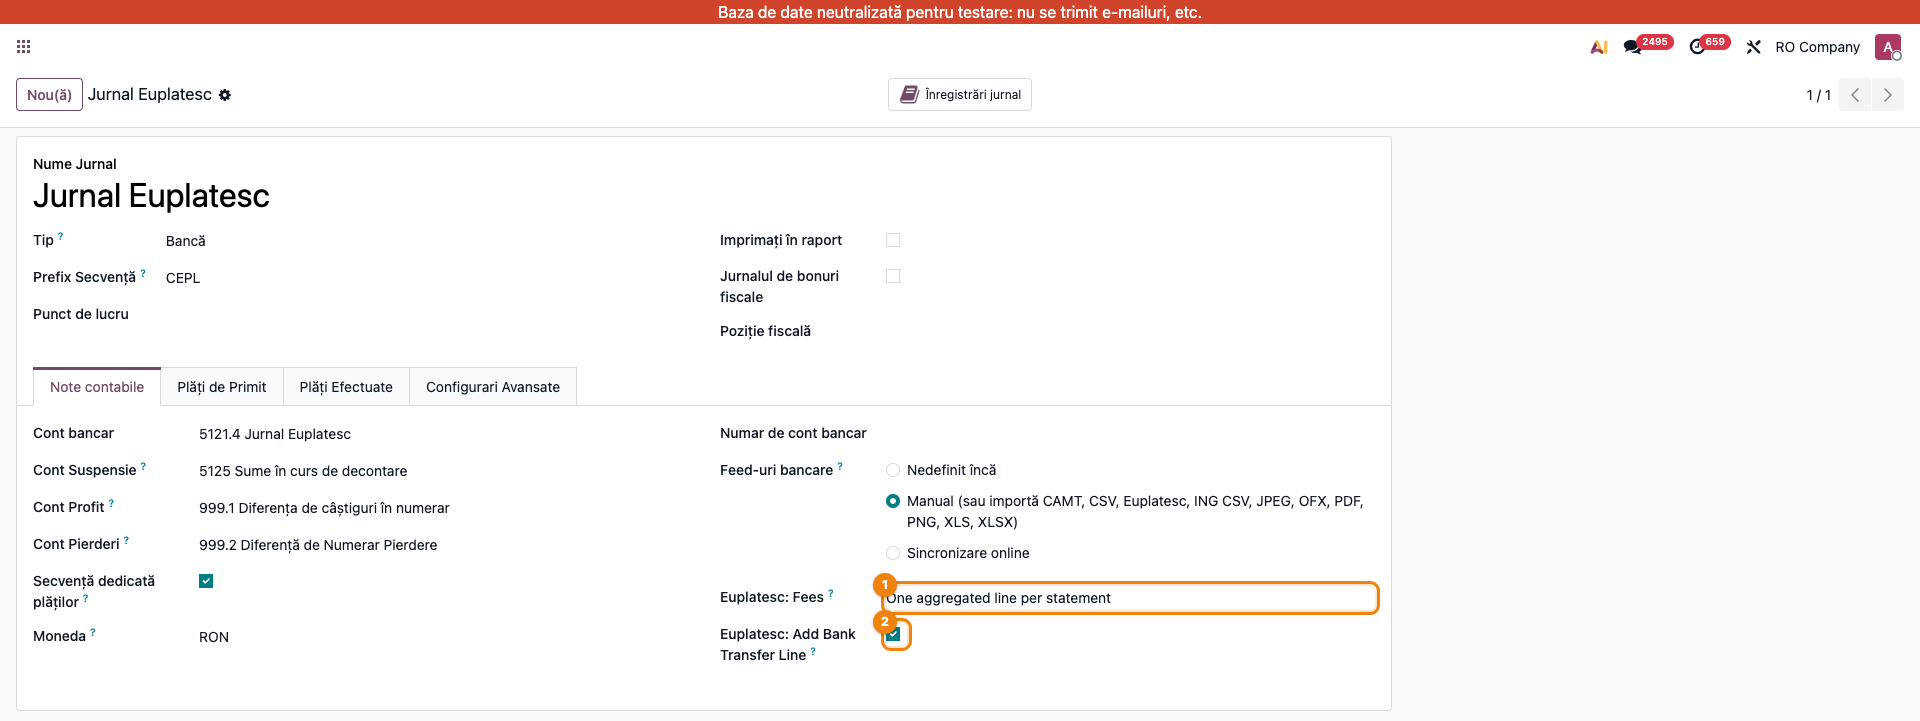
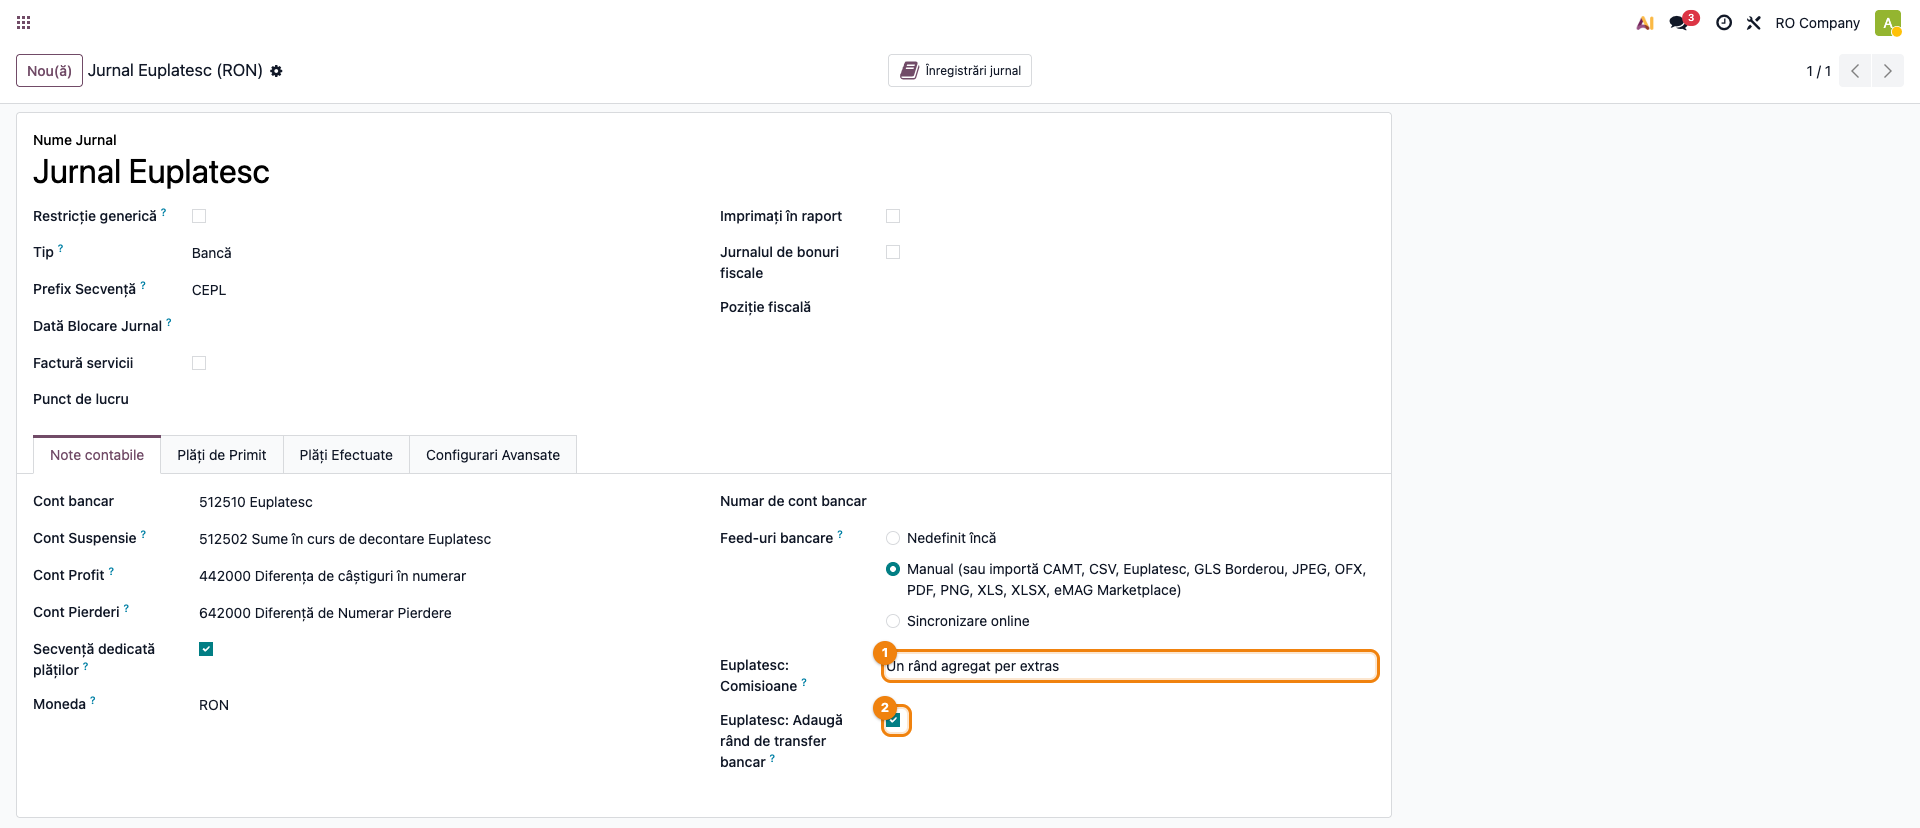
wiki: re-ingestie deltatech_account_bank_statement_import + euplatesc 19.0.1.2.0
Detecție pe set de coloane, helpere comune statement_header_key /
_statement_sheet_matching_header / _statement_partner_from_order_ref.

diff --git a/deltatech_account_bank_statement_import_euplatesc/index.md b/deltatech_account_bank_statement_import_euplatesc/index.md
@@ -1,10 +1,10 @@
 # Euplatesc Settlement Bank Statements Import (localizat la `deltatech_account_bank_statement_import_euplatesc/index.md`)
 
 - **Nume Tehnic:** `deltatech_account_bank_statement_import_euplatesc`
-- **Versiune:** `19.0.1.1.0`
+- **Versiune:** `19.0.1.2.0`
 - **Cale:** https://github.com/terrabit-solutions/bitshop_ent/tree/19.0/deltatech_account_bank_statement_import_euplatesc
 - **Cale Locală:** `odoo-addons/bitshop_ent/deltatech_account_bank_statement_import_euplatesc`
-- **Ultima Ingestie:** `2026-08-20`
+- **Ultima Ingestie:** `2026-09-19`
 - **Fișă Consultant:** [FISA_CONSULTANT.md](FISA_CONSULTANT.md)
 
 #### 1. Sumar
@@ -13,11 +13,13 @@ Modulul importă direct în Odoo, ca extrase de cont, fișierele de decontare (s
 
 #### 2. Funcționalități Cheie
 
-- **Import fișier original**: se încarcă exact fișierul de detaliere primit de la Euplatesc — se creează câte un extras pentru fiecare lot de decontare (foaia FPS).
-- **Detectare prin semnătură**: fișierul este recunoscut după antetul specific de coloane Euplatesc (MerchantID / InvoiceId / ... / RRN), astfel poate fi importat din orice jurnal de tip bancă, alături de alte formate de extras.
+- **Import fișier original**: se încarcă exact fișierul de detaliere primit de la Euplatesc — se creează câte un extras pentru fiecare lot de decontare (foaie FPS).
+- **Detectare prin semnătură pe SET de coloane**: fișierul este recunoscut dacă antetul conține coloanele obligatorii `MerchantID`, `InvoiceId`, `RRN`, `Suma`, `Moneda` — în orice ordine și în oricare dintre foile fișierului — nu mai printr-un prefix fix de patru coloane în ordine. Astfel poate fi importat din orice jurnal de tip bancă, alături de alte formate de extras, chiar dacă antetul e reordonat sau primește o coloană nouă.
+- **Semnătură bazată doar pe coloane cu nume tehnice**: `Descriere` și `Nume client` sunt citite de parser, dar nu mai fac parte din semnătura de recunoaștere — anterior, fiind denumiri românești, un raport descărcat din interfața Euplatesc în engleză nu mai era recunoscut și cădea tăcut în asistentul generic de mapare a coloanelor.
 - **O linie per plată cu cardul**: fiecare tranzacție devine o linie de extras cu referința comenzii web sau a facturii (InvoiceId), numele clientului și detaliile de decontare; rambursările (refund) sunt importate ca linii negative separate.
 - **Comisioane configurabile**: comisioanele de procesare Euplatesc (Minim1RON + Diff1RON) pot fi importate ca o singură linie agregată per extras (implicit), ca o linie per tranzacție, sau pot fi omise.
 - **Linie opțională de transfer bancar**: se poate adăuga automat o linie negativă cu suma netă transferată (configurabil per jurnal), astfel încât extrasul să se balanseze la zero, iar decontarea să poată fi reconciliată cu extrasul bancar real printr-un cont de transfer intern.
+- **Identificare automată a partenerului**: numărul comenzii (`InvoiceId`) este căutat în `sale.order` (`client_order_ref` sau `name`), iar clientul găsit este setat direct pe liniile de plată și de refund; o potrivire ambiguă lasă linia neatribuită, pentru decizia operatorului.
 - **Protecție la duplicate**: fiecare tranzacție este importată o singură dată (id unic de import per RRN); reimportarea aceluiași fișier este detectată.
 
 #### 3. Dependențe
@@ -32,7 +34,7 @@ Modulul importă direct în Odoo, ca extrase de cont, fișierele de decontare (s
 
 **Modele**
 
-- `account.journal` (extindere): adaugă câmpurile de configurare `euplatesc_commission_mode` și `euplatesc_add_transfer_line`, plus logica de parsare/import a fișierelor de decontare Euplatesc (detecție semnătură, generare linii de extras, deduplicare pe RRN).
+- `account.journal` (extindere): adaugă câmpurile de configurare `euplatesc_commission_mode` și `euplatesc_add_transfer_line`, plus logica de detecție/parsare a fișierelor de decontare Euplatesc. Detecția (`_read_euplatesc_file`) și parsarea (`_parse_euplatesc_file`) se bazează pe același set de coloane obligatorii (`EUPLATESC_REQUIRED_COLUMNS`), verificat prin helperul comun `_statement_sheet_matching_header()` din [deltatech_account_bank_statement_import](../deltatech_account_bank_statement_import/index.md), pentru ca cele două să nu diveargă. Identificarea partenerului folosește helperul comun `_statement_partner_from_order_ref()`.
 
 **Vizualizări**
 
@@ -44,5 +46,6 @@ Modulul importă direct în Odoo, ca extrase de cont, fișierele de decontare (s
 
 #### 5. Conexiuni
 
-- [deltatech_account_bank_statement_import](../deltatech_account_bank_statement_import/index.md): face parte din aceeași familie de module de import extrase bancare pentru procesatori de plăți e-commerce.
+- [deltatech_account_bank_statement_import](../deltatech_account_bank_statement_import/index.md): furnizează helperele comune de detecție pe set de coloane (`_statement_sheet_matching_header`) și de identificare a partenerului după referința comenzii (`_statement_partner_from_order_ref`), folosite de acest modul.
+- [deltatech_account_bank_statement_import_emag](../deltatech_account_bank_statement_import_emag/index.md): modul soră, din aceeași familie de import extrase pentru procesatori/marketplace-uri e-commerce, actualizat în aceeași schimbare la detecția pe set de coloane.
 - [l10n_ro_account_bank_statement_import_xlsx](../l10n_ro_account_bank_statement_import_xlsx/index.md): modul înrudit funcțional pentru import extrase XLSX în context de localizare românească.

diff --git a/deltatech_account_bank_statement_import/index.md b/deltatech_account_bank_statement_import/index.md
@@ -1,20 +1,22 @@
 # Bank Statements Import Extension (localizat la `deltatech_account_bank_statement_import/index.md`)
 
 - **Nume Tehnic:** `deltatech_account_bank_statement_import`
-- **Versiune:** `19.0.1.1.0`
+- **Versiune:** `19.0.1.2.0`
 - **Cale:** https://github.com/terrabit-solutions/bitshop_ent/tree/19.0/deltatech_account_bank_statement_import
 - **Cale Locală:** `odoo-addons/bitshop_ent/deltatech_account_bank_statement_import`
-- **Ultima Ingestie:** `2026-08-20`
+- **Ultima Ingestie:** `2026-09-19`
 
 #### 1. Sumar
 
-Acest modul extinde funcționalitatea de import al extraselor de cont bancar pentru a accepta fișiere XLSX, pe lângă formatele acceptate în mod standard. În plus, ajută la identificarea automată a partenerului asociat fiecărei tranzacții, reducând munca manuală de reconciliere și potrivire a încasărilor cu partenerii corecți.
+Acest modul extinde funcționalitatea de import al extraselor de cont bancar pentru a accepta fișiere XLSX, pe lângă formatele acceptate în mod standard. În plus, ajută la identificarea automată a partenerului asociat fiecărei tranzacții, reducând munca manuală de reconciliere și potrivire a încasărilor cu partenerii corecți. De la versiunea 19.0.1.2.0 pune la dispoziție și un mecanism comun de recunoaștere a fișierelor de decontare (procesatori de carduri, curieri, marketplace-uri), folosit de conectoarele specializate ale suitei.
 
 #### 2. Funcționalități Cheie
 
 - Import al extraselor de cont bancar din fișiere XLSX.
 - Detectare automată a partenerului după numele partenerului (caută un partener cu nume corespunzător).
-- Detectare automată a partenerului după referința comenzii de vânzare (caută o comandă de vânzare care corespunde referinței plății și asociază partenerul comercial al acelei comenzi).
+- Detectare automată a partenerului după referința comenzii de vânzare (caută o comandă de vânzare care corespunde referinței plății și asociază partenerul comercial al acelei comenzi) — helper comun `_statement_partner_from_order_ref()`, folosit de conectoarele de decontare (ex. eMAG, Euplatesc); dacă referința se potrivește cu mai multe comenzi, linia rămâne neatribuită și cere intervenția operatorului la reconciliere.
+- Helper comun `statement_header_key()`: normalizează un nume de coloană din antetul unui fișier (fără diacritice, literă mică, fără spații), astfel încât variații de scriere ale aceluiași antet să fie recunoscute ca identice.
+- Helper comun `account.journal._statement_sheet_matching_header(raw_file, required_columns)`: identifică fișierul XLSX de decontare potrivit după antetul lui, verificat ca **set** de coloane obligatorii (nu ca prefix ordonat) și căutat în toate foile fișierului — necesar pentru că aceste fișiere de la procesatori/curieri/marketplace nu poartă niciun marcaj al emitentului, iar un prefix ordonat ceda tăcut la prima coloană adăugată sau reordonată de furnizor.
 
 #### 3. Dependențe
 
@@ -22,8 +24,9 @@ Acest modul extinde funcționalitatea de import al extraselor de cont bancar pen
 
 #### 4. Componente Cheie
 
-Această secțiune nu este detaliată: documentația se bazează pe `readme/DESCRIPTION.md`, care nu solicită explicit analiza componentelor tehnice (modele, vizualizări, acțiuni automate).
+Această secțiune nu este detaliată: documentația se bazează pe `readme/DESCRIPTION.md`, care nu solicită explicit analiza componentelor tehnice (modele, vizualizări, acțiuni automate). Sunt menționate mai sus, la Funcționalități Cheie, cele două helpere noi introduse în `models/account_bank_statement_import.py` (`statement_header_key()` și `account.journal._statement_sheet_matching_header()`), fiind funcționalitate structurantă pentru restul suitei de conectoare.
 
 #### 5. Conexiuni
 
-Nu au fost identificate conexiuni suplimentare către alte module documentate în wiki, în afara dependenței directe de mai sus.
+- [deltatech_account_bank_statement_import_euplatesc](../deltatech_account_bank_statement_import_euplatesc/index.md): conectorul de decontare Euplatesc folosește `statement_header_key()` și `_statement_sheet_matching_header()` pentru a recunoaște fișierul de decontare, plus `_statement_partner_from_order_ref()` pentru atribuirea partenerului.
+- [deltatech_account_bank_statement_import_emag](../deltatech_account_bank_statement_import_emag/index.md): conectorul de decontare eMAG folosește aceleași două helpere noi (`statement_header_key()`, `_statement_sheet_matching_header()`) și `_statement_partner_from_order_ref()`.

diff --git a/deltatech_account_bank_statement_import_euplatesc/FISA_CONSULTANT.md b/deltatech_account_bank_statement_import_euplatesc/FISA_CONSULTANT.md
@@ -77,9 +77,14 @@ al comisioanelor și bifa pentru linia de transfer către bancă.
 Din **Contabilitate → Tablou de bord**, pe cardul jurnalului „Jurnal Euplatesc", deschideți
 meniul **⋮** și alegeți **Extrase** (secțiunea *Vizualizare*) — se deschide lista
 **Extrase bancă**. Apăsați butonul **Încărcare** și alegeți fișierul de detaliere primit de
-la Euplatesc — **nemodificat**. Modulul recunoaște fișierul după antetul de coloane
-(MerchantID / InvoiceId / ... / RRN); nu se mai deschide asistentul de mapare. Se creează
-câte un extras per lot de decontare (sheet „FPS...").
+la Euplatesc — **nemodificat**. Modulul recunoaște fișierul după coloanele din antet
+(MerchantID, InvoiceId, RRN, Suma, Moneda), indiferent de ordinea lor și de foaia în care se
+află; nu se mai deschide asistentul de mapare. Se creează câte un extras per lot de decontare
+(sheet „FPS...").
+
+> Recunoașterea se sprijină doar pe coloanele cu **nume tehnice**, aceleași în orice limbă, deci
+> un raport descărcat din interfața în engleză („Description", „Customer name") se importă la fel
+> de bine ca unul în română.
 
 > Alternativ, același import se poate porni din meniul **⋮** al cardului, linkul
 > **Importă fișier** (secțiunea *Nou*), sau trăgând fișierul peste lista de tranzacții.
@@ -129,7 +134,7 @@ liniile de comision).
 |---|---|---|
 | `account_bank_statement_import` (Enterprise) | mecanismul standard de import extrase | dependență (manifest) |
 | `account_bank_statement_import_csv` (Enterprise) | interceptorul de wizard peste care modulul are prioritate | dependență (manifest) |
-| `deltatech_account_bank_statement_import_gls` | același tipar pentru borderourile GLS | frate (opțional) |
+| `deltatech_account_bank_statement_import_gls` | același tipar pentru borderourile GLS (recunoscute însă după marcajul emitentului din prima celulă) | frate (opțional) |
 | `l10n_ro_account_bank_statement_import_ing_csv` | extrasul ING în care sosește decontarea | complementar (opțional) |
 | `sale` / e-commerce | comenzile web (`InvoiceId`) — baza identificării automate a partenerului (faza următoare) | opțional |
 
@@ -160,7 +165,7 @@ regula de reconciliere pentru 627 și închiderea 581 pe extrasul băncii reale.
 | „You already have imported that file." | Detalierea a fost deja importată (id unic per RRN) | Nu e o eroare — liniile există deja; verificați extrasul creat anterior |
 | „Cannot find in which journal to import this statement..." | Jurnalul nu e în RON (moneda detalierii) sau importul s-a făcut de pe alt jurnal | Importați de pe jurnalul Euplatesc configurat în RON |
 | „You can't create a new statement line without a suspense account..." | Jurnalul nu are cont tranzitoriu (suspense) configurat | Setați contul tranzitoriu pe jurnal (Contabilitate → Configurare → Jurnale) |
-| Fișierul deschide asistentul de mapare în loc de import direct | Antetul nu corespunde formatului Euplatesc (alt export) | Verificați că e detalierea Euplatesc originală; alte formate se importă prin asistent |
+| Fișierul deschide asistentul de mapare în loc de import direct | Antetului îi lipsește una dintre coloanele după care se recunoaște fișierul (MerchantID, InvoiceId, RRN, Suma, Moneda) — de regulă alt export sau un fișier prelucrat manual | Verificați că e detalierea Euplatesc originală, nerezalvată; dacă Euplatesc a schimbat structura raportului, trimiteți mostra către Terrabit |
 | Soldul extrasului nu e zero | Comisioanele setate pe „deloc" dar linia de transfer activă | Aliniați opțiunile jurnalului (transferul scade mereu și comisioanele reale) |
 
 ## 10. Capturi de ecran
